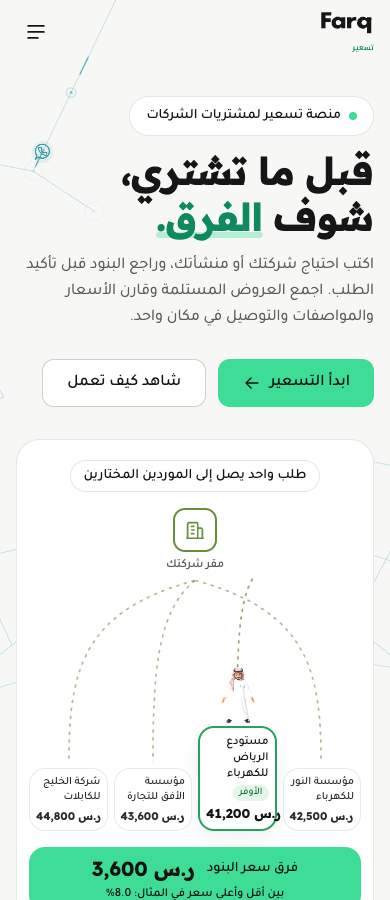
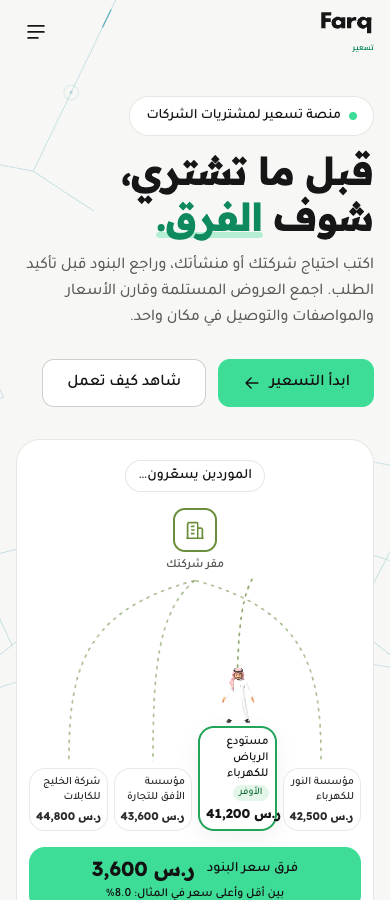
fix: keep channel pulses visible through small screen cycles

diff --git a/src/live-bg/webMesh.ts b/src/live-bg/webMesh.ts
@@ -34,11 +34,12 @@ export function drawWebExpansion(
 ) {
   let connected = connectedNodes.get(edges)
   if (!connected) { connected = new Set(edges.flatMap((e) => [e.a, e.b])); connectedNodes.set(edges, connected) }
-  const cycle = t % 26, returning = cycle >= 12 && cycle < 24
-  const frontier = returning ? 1100 * (1 - (cycle - 12) / 12) : 1100 * Math.min(1, cycle / 12)
+  const width = ctx.canvas.width / Math.min(2, window.devicePixelRatio || 1)
+  const reach = width < 640 ? 790 : 1100
+  const cycle = (t + 3) % 26, returning = cycle >= 12 && cycle < 24
+  const frontier = returning ? reach * (1 - (cycle - 12) / 12) : reach * Math.min(1, cycle / 12)
   const fade = cycle > 24 ? (26 - cycle) / 2 : Math.min(1, cycle / 1.2)
   const packets = new Map<number, { x: number; y: number; score: number; icon: number }>()
-  const width = ctx.canvas.width / Math.min(2, window.devicePixelRatio || 1)
   const slots = width < 640 ? 2 : 3
   ctx.save(); ctx.globalAlpha = fade; ctx.lineWidth = 1.4; ctx.lineCap = 'round'
   ctx.strokeStyle = returning ? back : go; ctx.beginPath()
@@ -48,7 +49,7 @@ export function drawWebExpansion(
     const diff = b.d - a.d
     if (Math.abs(diff) < 1) continue
     for (const wave of [0, 160]) {
-    const travel = frontier + (returning ? wave : -wave)
+    const travel = (frontier + (returning ? -wave : wave) + reach) % reach
     const f = (travel - a.d) / diff
     if (f < 0 || f > 1) continue
     const start = Math.max(0, f - 16 / e.L), end = Math.min(1, f + 3 / e.L)

diff --git a/public/gate-network.js b/public/gate-network.js
@@ -36,11 +36,12 @@ function drawWebExpansion(ctx, points, edges, t, go, back, y0 = 0, y1 = Infinity
         connected = new Set(edges.flatMap((e) => [e.a, e.b]));
         connectedNodes.set(edges, connected);
     }
-    const cycle = t % 26, returning = cycle >= 12 && cycle < 24;
-    const frontier = returning ? 1100 * (1 - (cycle - 12) / 12) : 1100 * Math.min(1, cycle / 12);
+    const width = ctx.canvas.width / Math.min(2, window.devicePixelRatio || 1);
+    const reach = width < 640 ? 790 : 1100;
+    const cycle = (t + 3) % 26, returning = cycle >= 12 && cycle < 24;
+    const frontier = returning ? reach * (1 - (cycle - 12) / 12) : reach * Math.min(1, cycle / 12);
     const fade = cycle > 24 ? (26 - cycle) / 2 : Math.min(1, cycle / 1.2);
     const packets = new Map();
-    const width = ctx.canvas.width / Math.min(2, window.devicePixelRatio || 1);
     const slots = width < 640 ? 2 : 3;
     ctx.save();
     ctx.globalAlpha = fade;
@@ -56,7 +57,7 @@ function drawWebExpansion(ctx, points, edges, t, go, back, y0 = 0, y1 = Infinity
         if (Math.abs(diff) < 1)
             continue;
         for (const wave of [0, 160]) {
-            const travel = frontier + (returning ? wave : -wave);
+            const travel = (frontier + (returning ? -wave : wave) + reach) % reach;
             const f = (travel - a.d) / diff;
             if (f < 0 || f > 1)
                 continue;
